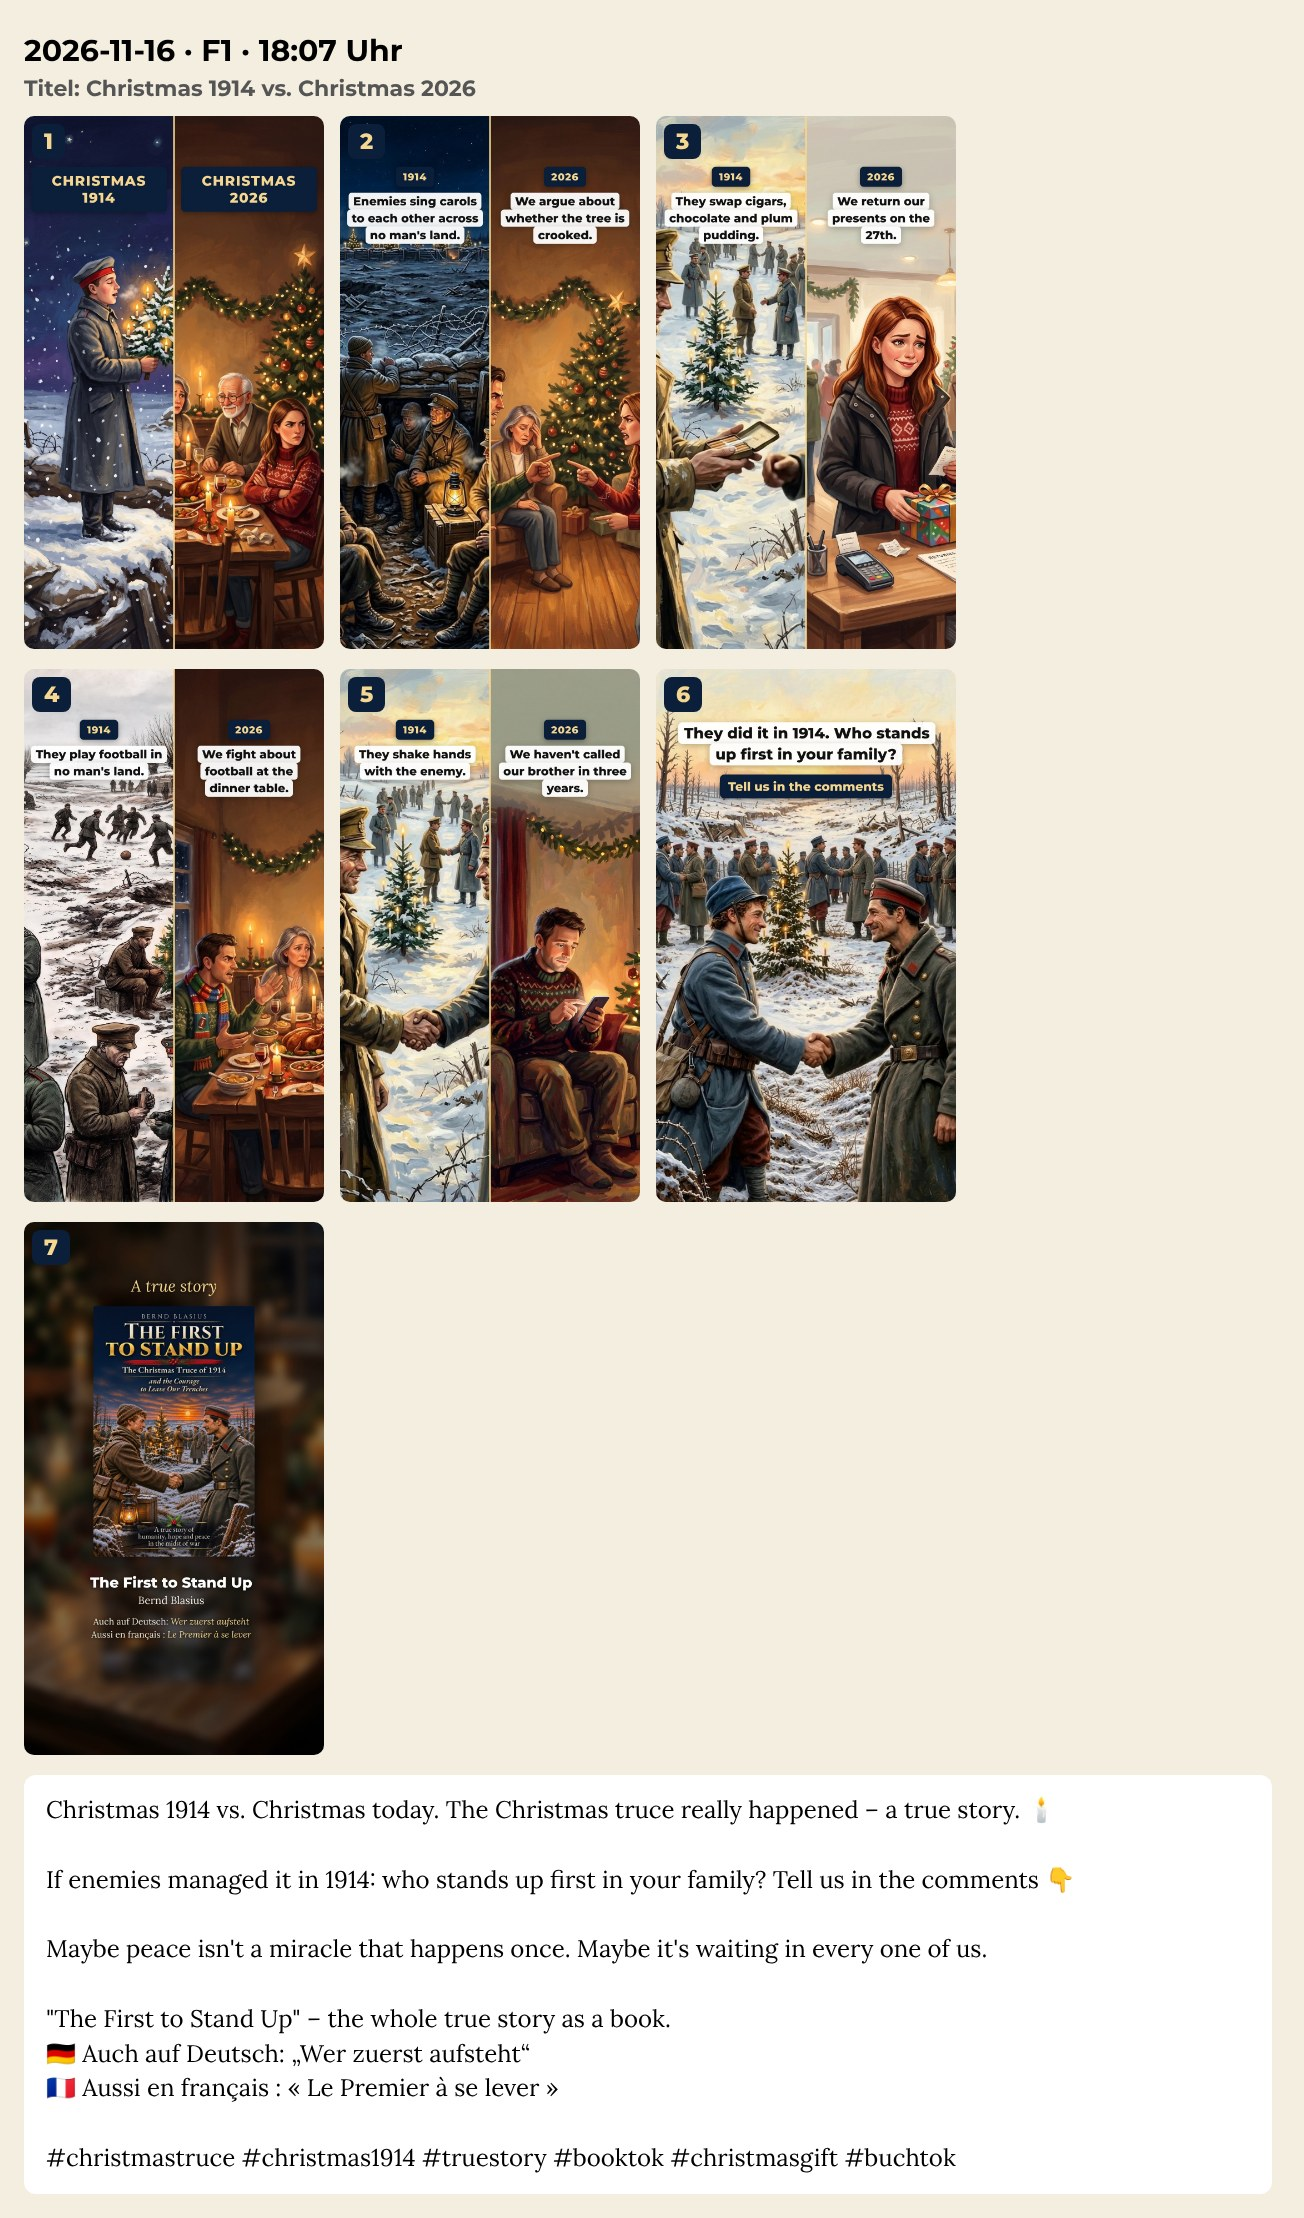
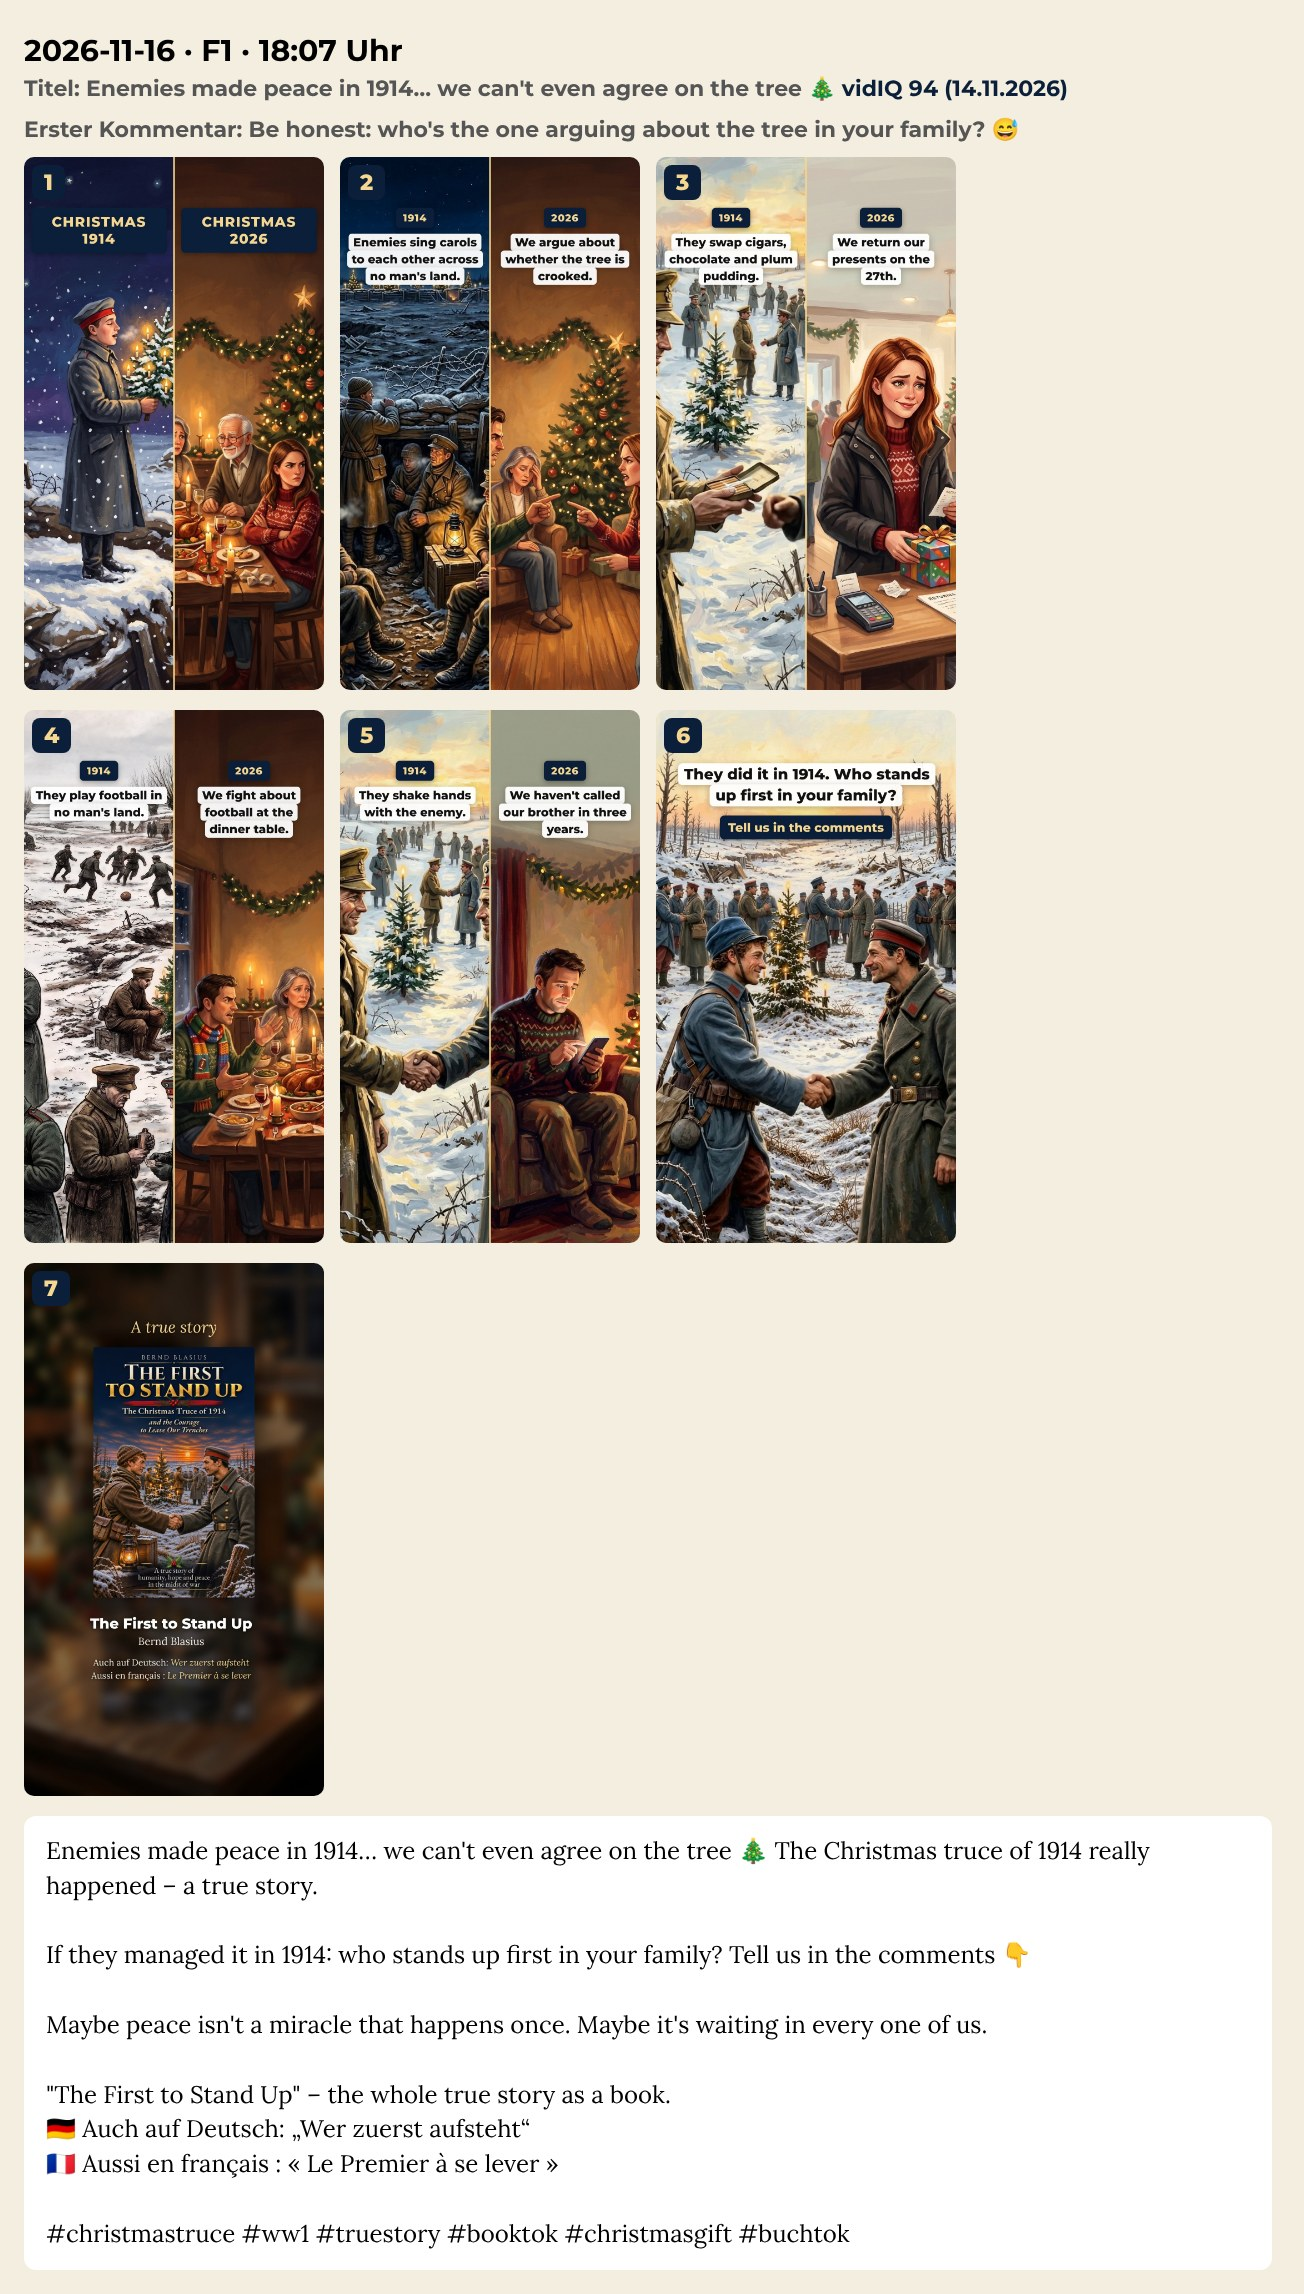
Titel und Beschreibungen geprüft (vidIQ), erster Kommentar, Freigabebögen
Claude-Session: https://claude.ai/code/session_0169ry1uw64YYZNaS688yVUN

Changed region(s): [[0.0, 0.0, 0.8282, 0.5289], [0.0, 0.56, 0.9816, 0.9955]]

diff --git a/werkzeug/slides.py b/werkzeug/slides.py
@@ -238,7 +238,8 @@ def sheet(specfile):
     .cap{{font-family:Lora;font-size:24px;line-height:1.45;background:#fff;padding:18px 22px;border-radius:12px;width:{cols * (tw + 16) - 16}px}}
     </style></head><body>
     <h1>{spec.get('date', '')} · {spec.get('format', '')} · {spec.get('time', '')} Uhr</h1>
-    <div class="meta">Titel: {spec.get('title', '')}</div>
+    <div class="meta">Titel: {spec.get('title', '')} <span style="color:#0b1f3a">{spec.get('titleScore', '')}</span></div>
+    <div class="meta">Erster Kommentar: {spec.get('firstComment', '–')}</div>
     <div>{thumbs}</div><div class="cap">{cap}</div></body></html>"""
     tmp = pathlib.Path(tempfile.mkdtemp()); hp = tmp / "sheet.html"; hp.write_text(html, encoding="utf-8")
     out = d / "uebersicht.jpg"
